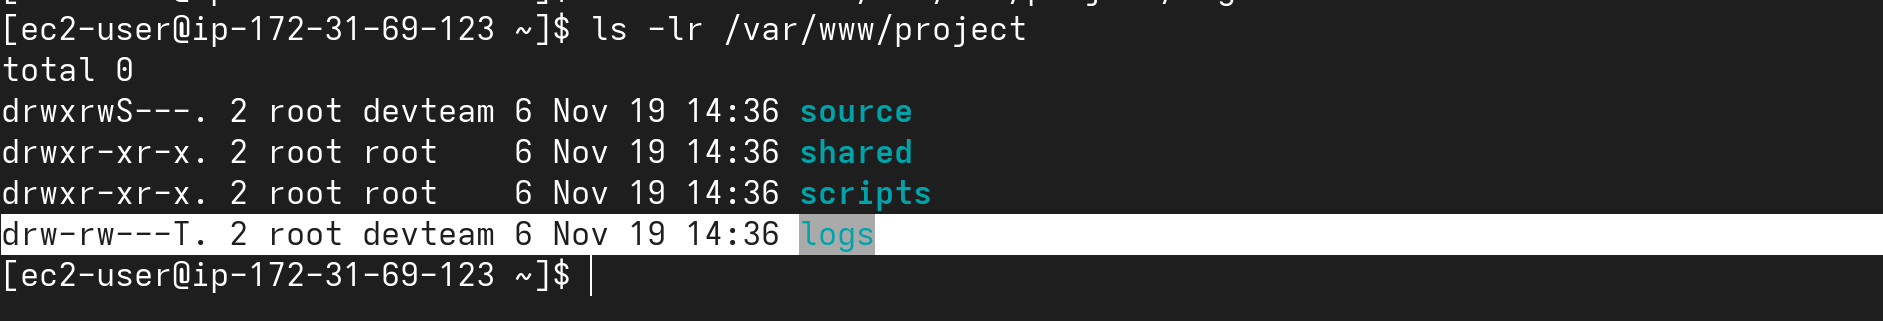
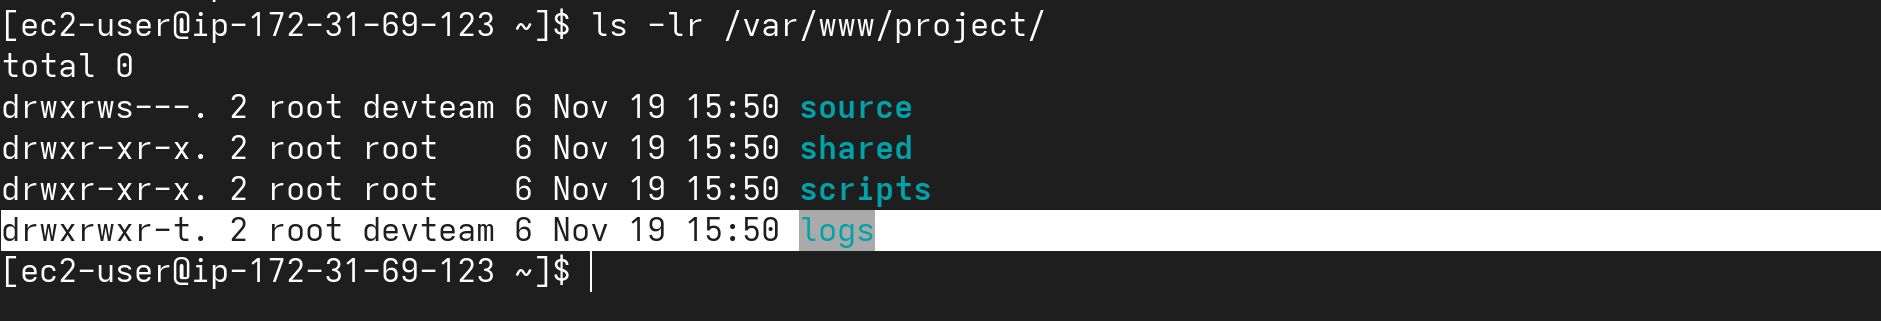
task 3 and 5

diff --git a/day3/Assignment/Task3.md b/day3/Assignment/Task3.md
@@ -11,9 +11,8 @@ rw-rw-r-- for files)
 - Commands
 
 ```bash
-sudo chown root:devteam  /var/www/project/source
-sudo chmod 760 /var/www/project/source  
-sudo chmod g+s /var/www/project/source
+sudo chown -R root:devteam /var/www/project/source
+sudo chmod 2770 /var/www/project/source
 ```
 - Output
 ![alt text](images/task3a.png)
@@ -29,8 +28,7 @@ sudo chmod g+s /var/www/project/source
 
 ```bash
 sudo chown root:devteam /var/www/project/logs
-sudo chmod 660 /var/www/project/logs
-sudo chmod +t /var/www/project/logs
+sudo chmod 1775 /var/www/project/logs
 ```
 - Output
 
@@ -47,8 +45,8 @@ sudo chmod +t /var/www/project/logs
 
 ```bash
 sudo chown deploy:deployers /var/www/project/scripts/deploy.sh
-sudo chmod 710 /var/www/project/scripts/deploy.sh
-sudo chmod u+s /var/www/project/scripts/deploy.sh
+sudo chmod 4750 /var/www/project/scripts/deploy.sh
+
 ```
 - Output
 ![alt text](images/task3c.png)
@@ -65,8 +63,7 @@ automatically
 
 ```bash
 sudo chown root:devteam /var/www/project/shared
-sudo chmod 660 /var/www/project/shared
-sudo chmod g+s /var/www/project/shared
+sudo chmod 2775 /var/www/project/shared
 ```
 - Output
 ![alt text](images/task3d.png)

diff --git a/day3/Assignment/Task2.md b/day3/Assignment/Task2.md
@@ -1,0 +1,44 @@
+# Task 2: Dierctory and File Setup
+
+Scenario You are a DevOps engineer at a XYZ company. The development team works
+on a shared project located in /var/www/project . Multiple developers and a
+deployment user need different levels of access. You must set up proper users,
+groups, and permissions to ensure security and collaboration.
+
+---
+
+1. **Create the project directory:**
+```bash
+/var/www/project
+```
+
+- Command
+
+```bash
+sudo makdir -p /var/www/project
+```
+- Output
+
+![alt text](images/task2a.png)
+---
+
+2. **Insid /var/www/project, create:**
+```bash
+    - source/ ( source code - only devteam can read/write )
+    - logs/   ( logs - everyone in devteam can append, but not delter other's files )
+    - scripts/ ( deployment scripts - only deploy user can execute some scripts )
+    - shared/  ( shared assets - all devteam can read/write, new files inherit group)
+```
+
+- Command
+
+```bash
+sudo mkdir -p /var/www/project/{source,logs,scripts,shared}
+ls /var/www/project/
+```
+
+
+- Output
+
+![alt text](images/task2b.png)
+---

diff --git a/day3/Assignment/Task5.md b/day3/Assignment/Task5.md
@@ -1,0 +1,56 @@
+# Task 5: Verification & Testing
+1. **As user `ram` , create a file in `shared/` and verify:**
+```bash
+    -   Group ownership is `devteam`
+    -   Permissions are `664` (or `775` for directories)
+```
+- Command
+
+```bash
+su ram
+cd 
+cd /var/www/project/shared
+touch ram_file.txt
+```
+
+- Output
+
+![alt text](images/task5a.png)
+---
+
+2. **As user `gita` , try to delete a file created by `ram` in `logs/` → should fail due to sticky bit.**
+
+- Command
+
+```bash
+su ram
+cd
+cd /var/www/project/logs
+touch ram.log
+su gita
+cd
+cd /var/www/project/logs
+rm ram.log
+```
+
+- Output
+
+![alt text](images/task5b.png)
+
+---
+
+3. **As user `deploy` , execute the `deploy.sh` script successfully even if not owner.**
+
+- Command
+
+```bash
+su deploy
+cd
+/var/www/project/scripts/deploy.sh
+```
+
+- Output
+
+![alt text](images/task5c.png)
+
+---

diff --git a/day3/Assignment/Task4.md b/day3/Assignment/Task4.md
@@ -1,0 +1,2 @@
+# Task 4: umask and Default Permissions
+
